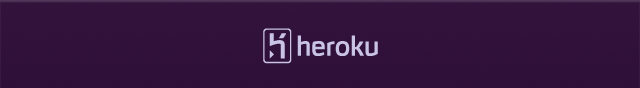
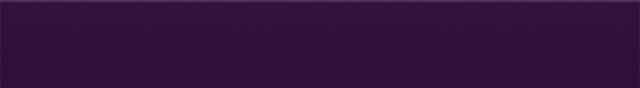
Add Heroku image separate from navigation bar

Changed region(s): [[0.4062, 0.3182, 0.5938, 0.7273]]

diff --git a/Heroku/Code/HRKUpdatesViewController.m b/Heroku/Code/HRKUpdatesViewController.m
@@ -58,6 +58,7 @@ static NSString * const kHerokuStatusURL = @"https://status.heroku.com/incidents
     // Issue header
     UINib *header = [UINib nibWithNibName:@"HRKUpdateHeaderView" bundle:nil];
     [self.collectionView registerNib:header forSupplementaryViewOfKind:UICollectionElementKindSectionHeader withReuseIdentifier:kUpdatesHeaderIdentifier];
+    self.navigationItem.titleView = [[UIImageView alloc] initWithImage:[UIImage imageNamed:@"heroku.png"]];
     self.navigationItem.rightBarButtonItem = [[UIBarButtonItem alloc] initWithBarButtonSystemItem:UIBarButtonSystemItemAction
                                                                                            target:self
                                                                                            action:@selector(shareIssue:)];

diff --git a/Heroku/Code/HRKIssuesViewController.m b/Heroku/Code/HRKIssuesViewController.m
@@ -49,6 +49,8 @@ static NSString * const kHerokuCurrentStatusURL = @"https://status.heroku.com/ap
     [self.collectionView registerNib:header forSupplementaryViewOfKind:UICollectionElementKindSectionHeader withReuseIdentifier:kHeaderIdentifier];
     
     [self.collectionView addSubview:self.refreshControl];
+    self.navigationItem.titleView = [[UIImageView alloc] initWithImage:[UIImage imageNamed:@"heroku.png"]];
+
     [self refetchData];
     [self customBackButton];
 }
